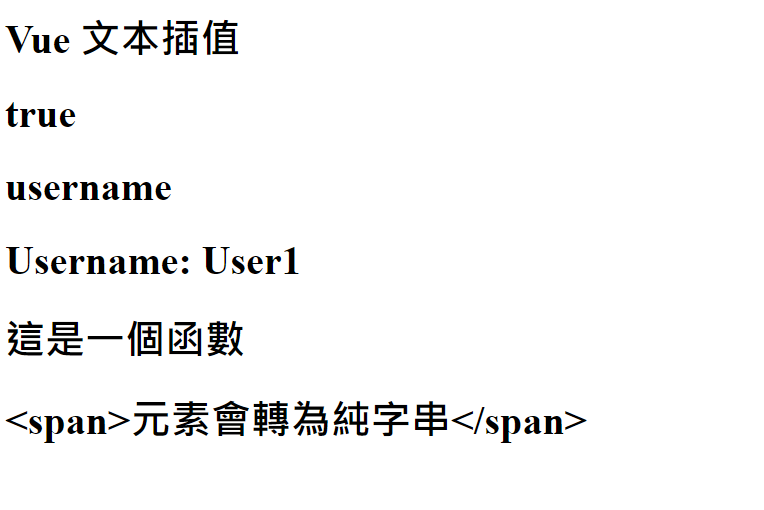
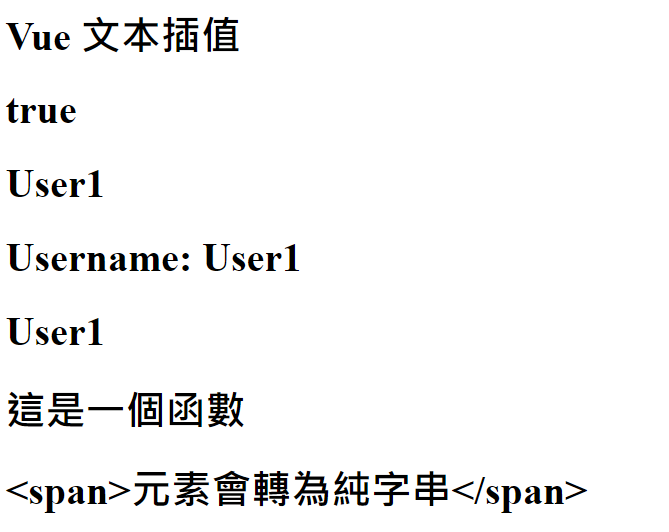
add v-text

diff --git a/src/components/Demo1.vue b/src/components/Demo1.vue
@@ -8,8 +8,9 @@ const html = '<span>元素會轉為純字串</span>'
   <div>
     <h1>{{ 'Vue 文本插值' }}</h1>
     <h1>{{ 8 > 5 ? 'true' : 'false' }}</h1>
-    <h1>username</h1>
+    <h1>{{ username }}</h1>
     <h1>Username: {{ username }}</h1>
+    <h1 v-text="username"></h1>
     <h1>{{ message() }}</h1>
     <h1>{{ html }}</h1>
   </div>
